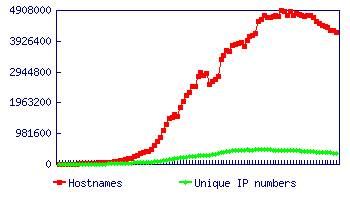
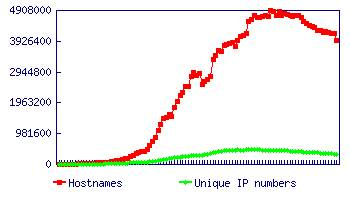
last 5 months update: going down
git-svn-id: https://svn.apache.org/repos/asf/perl/modperl/docs/trunk@357839 13f79535-47bb-0310-9956-ffa450edef68

Changed region(s): [[0.1714, 0.03, 0.9714, 0.84], [0.8286, 0.72, 0.9714, 0.84]]

diff --git a/src/outstanding/stats/netcraft.html b/src/outstanding/stats/netcraft.html
@@ -31,6 +31,11 @@ http://www.netcraft.com/survey/Reports/200206/mod_perl.txt till July
 
 <table cellpadding="3" border="1" cellspacing="0">
 <tr><th>Survey</th><th>Hostnames</th><th>Unique IP Addresses</th></tr>
+<tr><td> November 2005  </td><td>3954884</td><td>326315</td></tr>
+<tr><td> October 2005   </td><td>4166819</td><td>332566</td></tr>
+<tr><td> September 2005 </td><td>4171815</td><td>335777</td></tr>
+<tr><td> August 2005    </td><td>4193477</td><td>337853</td></tr>
+<tr><td> July 2005      </td><td>4223875</td><td>346042</td></tr>
 <tr><td> June 2005      </td><td>4208891</td><td>355845</td></tr>
 <tr><td> May 2005       </td><td>4271554</td><td>361500</td></tr>
 <tr><td> April 2005     </td><td>4280199</td><td>367110</td></tr>

diff --git a/src/outstanding/stats/securityspace.html b/src/outstanding/stats/securityspace.html
@@ -7,12 +7,12 @@
 <body bgcolor="#ffffff">
 
 <p> SecuritySpace provides an <a
-href="http://www.securityspace.com/s_survey/data/man.200506/apachemods.html?mod=cGVybA==">Apache
+href="http://www.securityspace.com/s_survey/data/man.200511/apachemods.html?mod=cGVybA==">Apache
 Module Report on mod_perl</a> comprising statistics and a graph based
 on the data collected by <a
 href="http://www.securityspace.com/">www.securityspace.com</a>. They
 also feature <a
-href="http://www.securityspace.com/s_survey/data/man.200506/apachemods.html">a
+href="http://www.securityspace.com/s_survey/data/man.200511/apachemods.html">a
 comparison</a> between all the Apache modules they survey.  </p>
 
 </body>
